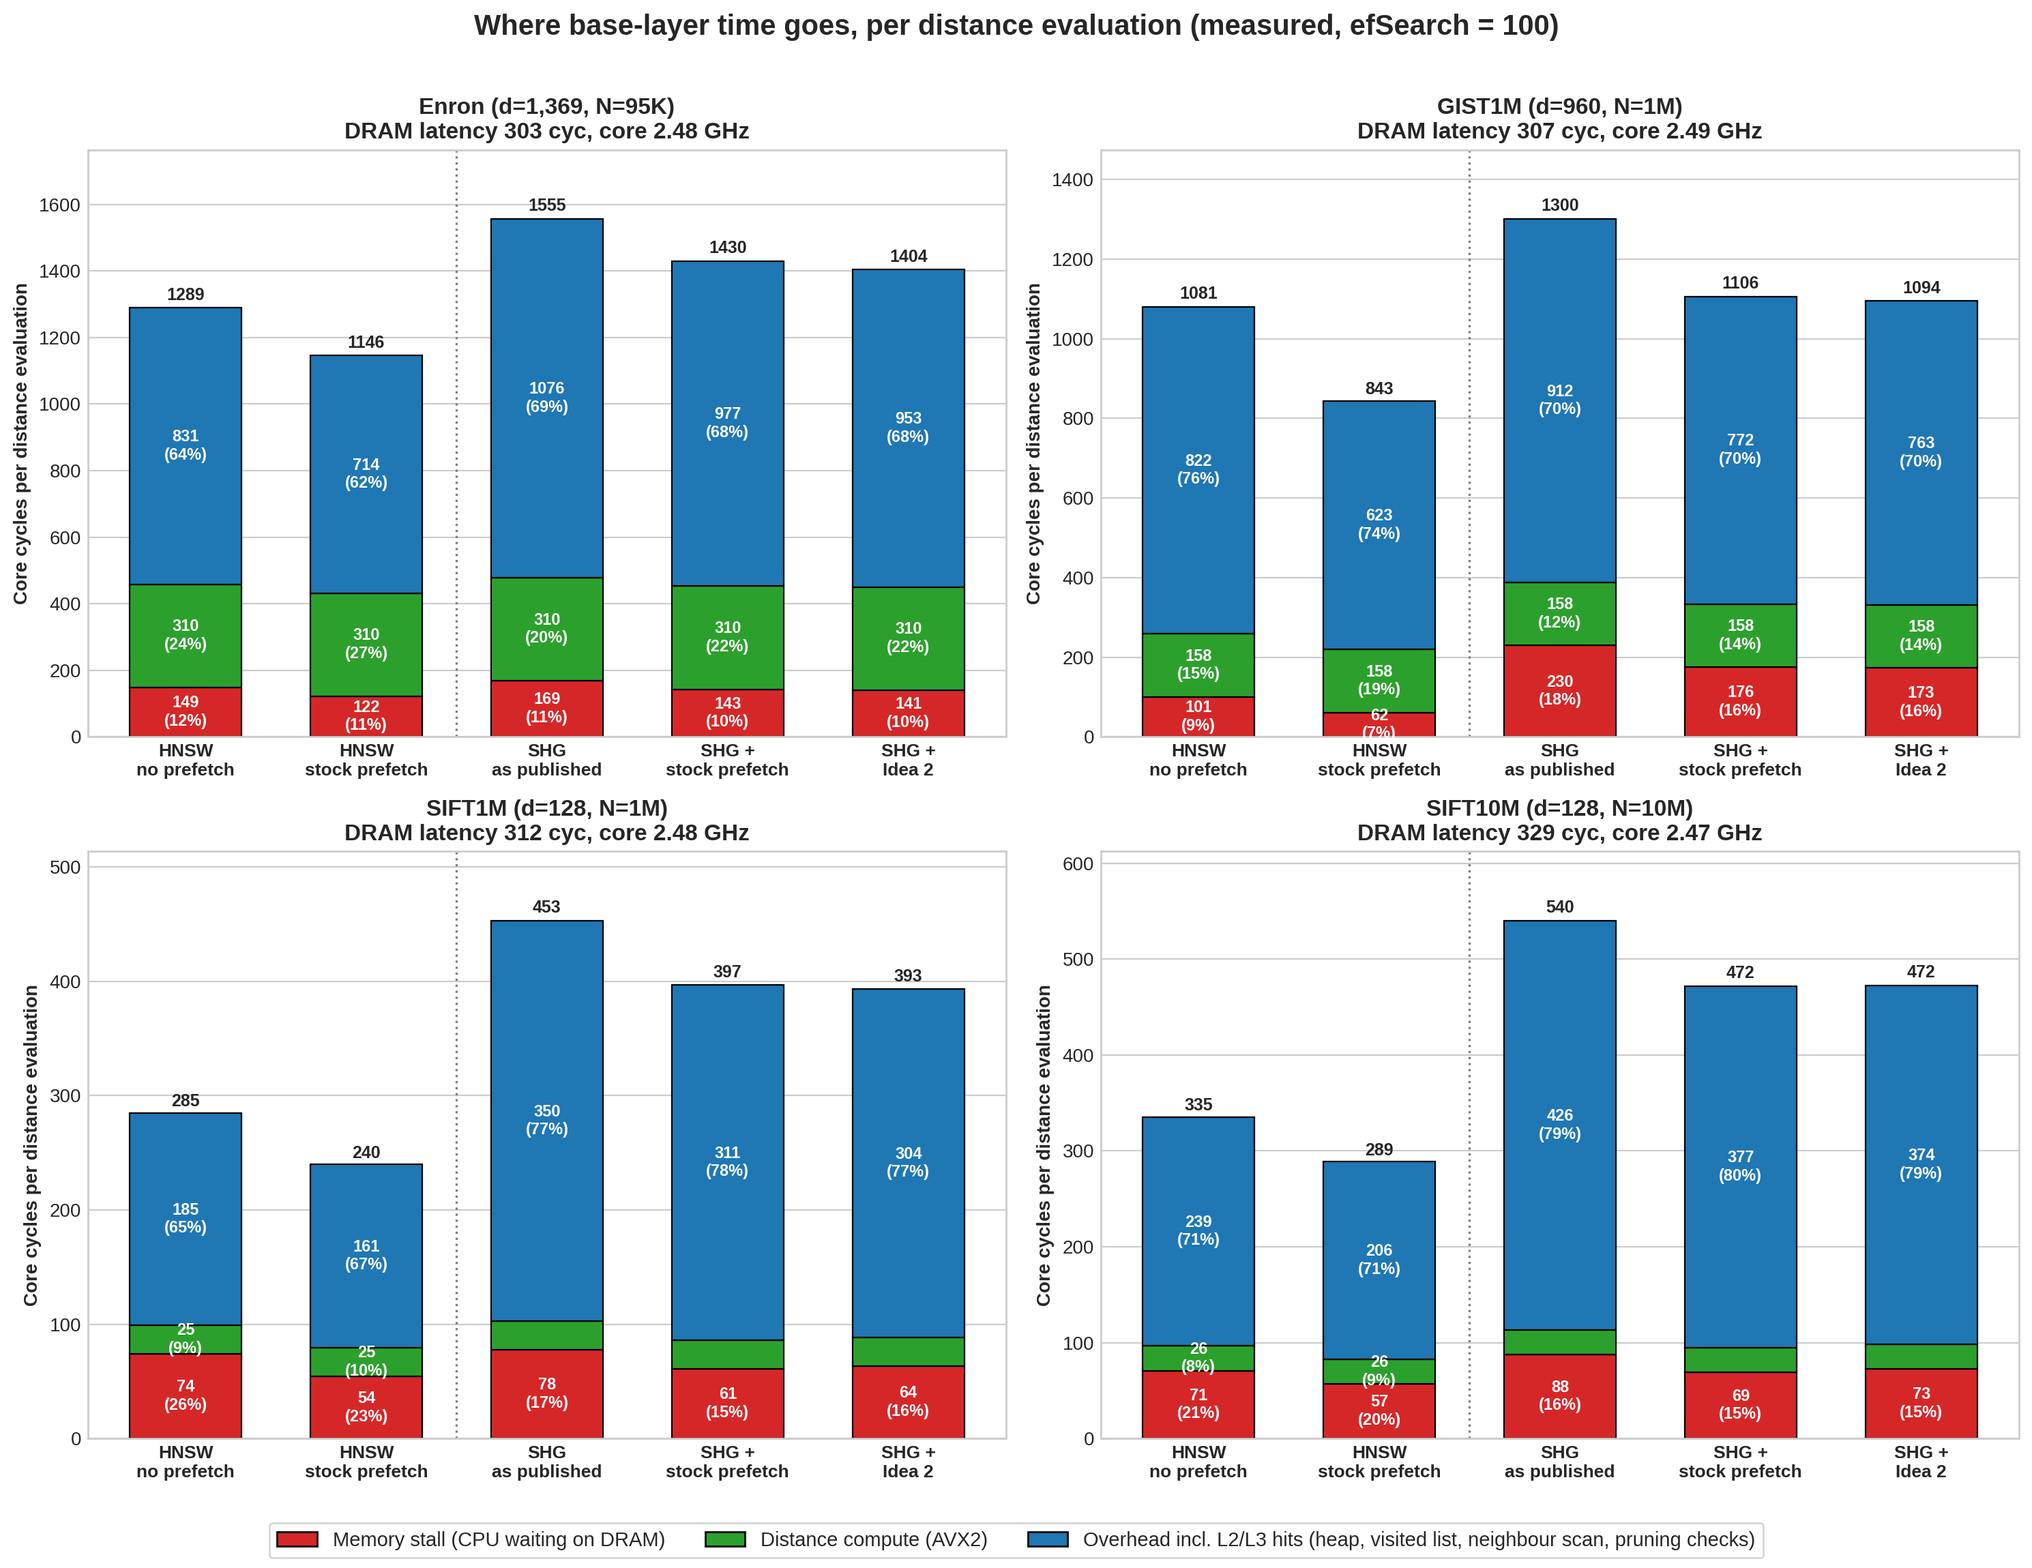
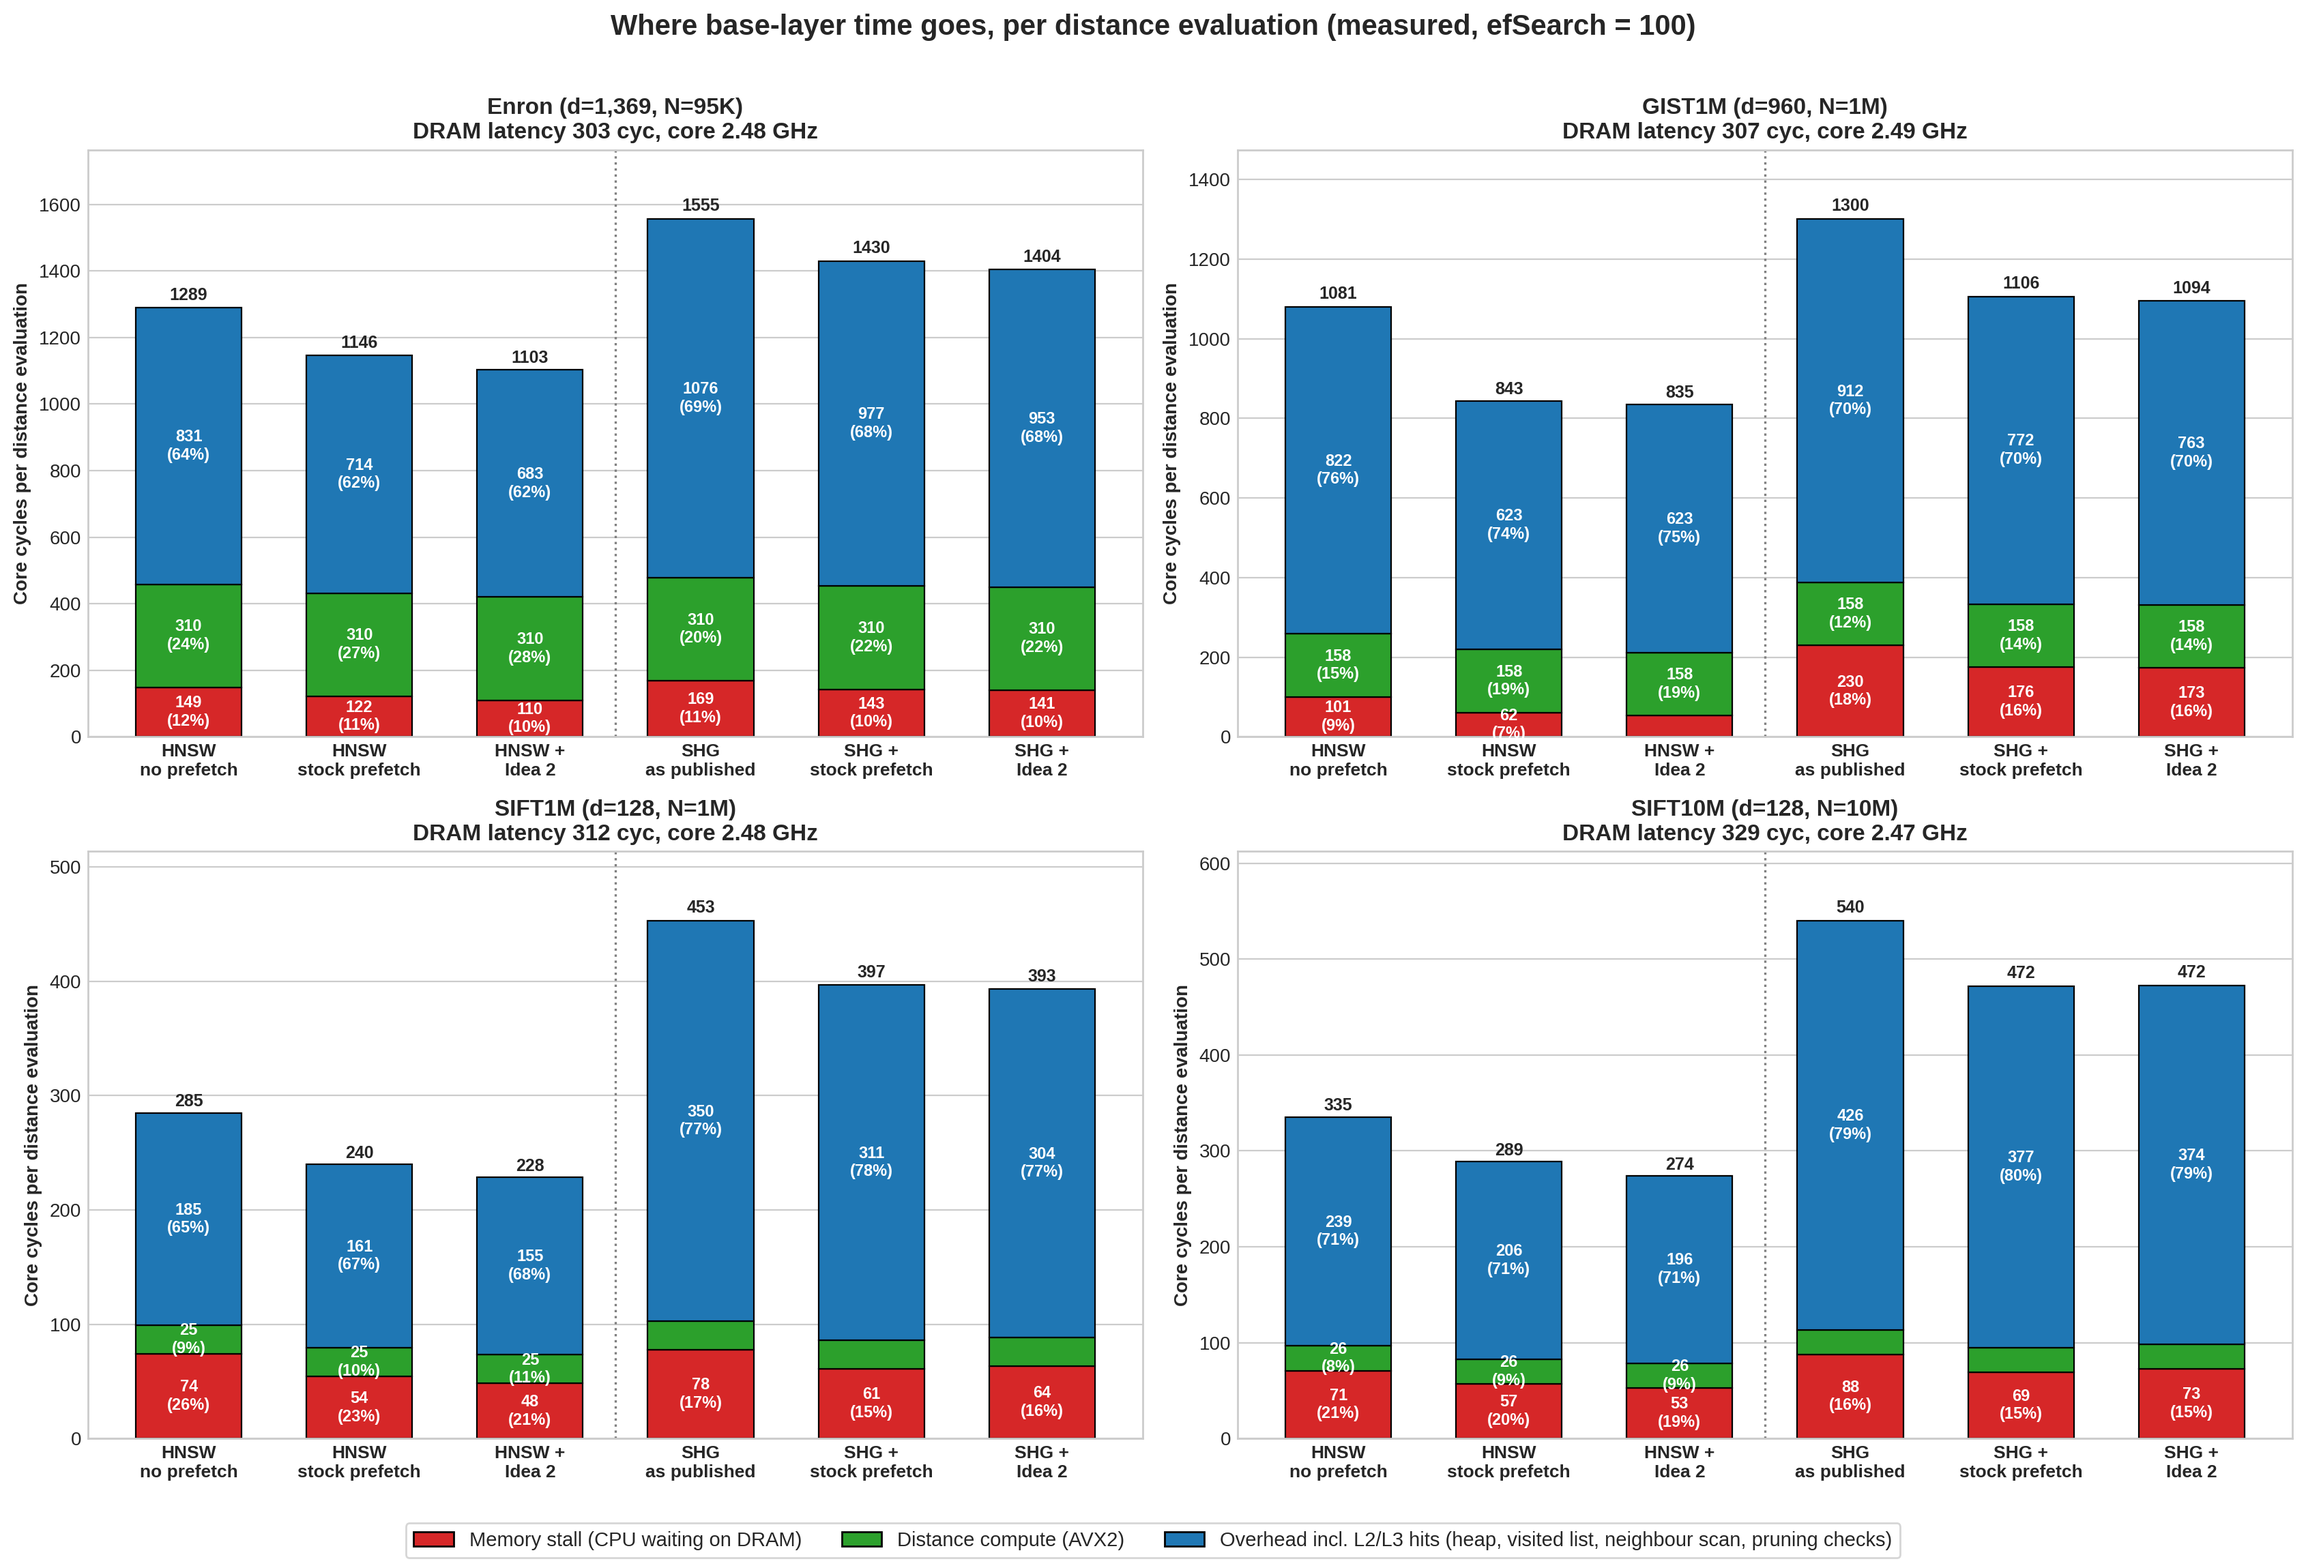
plots: add HNSW + Idea 2 bar to the CPU time breakdown (new_plot/5)
Figure 5 showed HNSW only with no prefetch and stock prefetch. Adds an
HNSW + Idea 2 bar (lookahead L=2, from stall2_<dataset>/HNSW_idea2_L2),
so both indexes show no prefetch / stock / Idea 2 side by side. Regenerated
for efSearch 20, 64 and 100; the CSVs now include HNSW_idea2 rows.

efSearch=64, cycles per base-layer distance evaluation (stock -> Idea 2):
  HNSW  Enron 1106 -> 1081   GIST 831 -> 839   SIFT1M 236 -> 220   SIFT10M 280 -> 266
  SHG   Enron 1325 -> 1339   GIST 1006 -> 1019 SIFT1M 375 -> 379   SIFT10M 454 -> 439
Idea 2 hides more stall than stock on HNSW (5-7% faster per evaluation on
SIFT and Enron); on SHG the two are within about 3%.

diff --git a/plot_motivation.py b/plot_motivation.py
@@ -27,12 +27,12 @@ plt.style.use('seaborn-v0_8-whitegrid' if 'seaborn-v0_8-whitegrid' in plt.style.
 
 def grid():
     nr = (len(DATASETS) + 1) // 2
-    fig, ax = plt.subplots(nr, 2, figsize=(15, 5.8 * nr), dpi=200, squeeze=False)
+    fig, ax = plt.subplots(nr, 2, figsize=(17, 5.8 * nr), dpi=200, squeeze=False)
     for a in ax.flat[len(DATASETS):]: a.set_visible(False)
     return fig, ax.flat
 
 # ---------------- Figure 5: where the time per distance evaluation goes ----------------
-BARS = [('HNSW_noprefetch', 'HNSW\nno prefetch'), ('HNSW_stock', 'HNSW\nstock prefetch'),
+BARS = [('HNSW_noprefetch', 'HNSW\nno prefetch'), ('HNSW_stock', 'HNSW\nstock prefetch'), ('HNSW_idea2', 'HNSW +\nIdea 2'),
         ('SHG_original', 'SHG\nas published'), ('SHG_stock', 'SHG +\nstock prefetch'), ('SHG_idea2', 'SHG +\nIdea 2')]
 fig, axes = grid()
 rows = []
@@ -50,7 +50,7 @@ for a, (k, title) in zip(axes, DATASETS):
         a.text(x, bottom * 1.01, f'{tot:.0f}', ha='center', va='bottom', fontsize=9, fontweight='bold')
         rows.append(dict(dataset=k, method=m, ef=EF, stall_cyc=r.stall_cyc_per_eval, compute_cyc=r.compute_cyc_per_eval,
                          overhead_cyc=r.overhead_cyc_per_eval, total_cyc=tot, stall_pct=100 * max(r.stall_cyc_per_eval, 0) / tot))
-    a.axvline(1.5, color='grey', ls=':', lw=1.2)
+    a.axvline(2.5, color='grey', ls=':', lw=1.2)
     a.set_xticks(range(len(BARS))); a.set_xticklabels([b[1] for b in BARS], fontsize=9.5, fontweight='bold')
     a.set_title(f'{title}\nDRAM latency {d.dram_latency_cyc.iloc[0]:.0f} cyc, core {d.core_ghz.iloc[0]:.2f} GHz', fontweight='bold')
     a.set_ylabel('Core cycles per distance evaluation', fontweight='bold'); a.set_ylim(0, a.get_ylim()[1] * 1.08)
